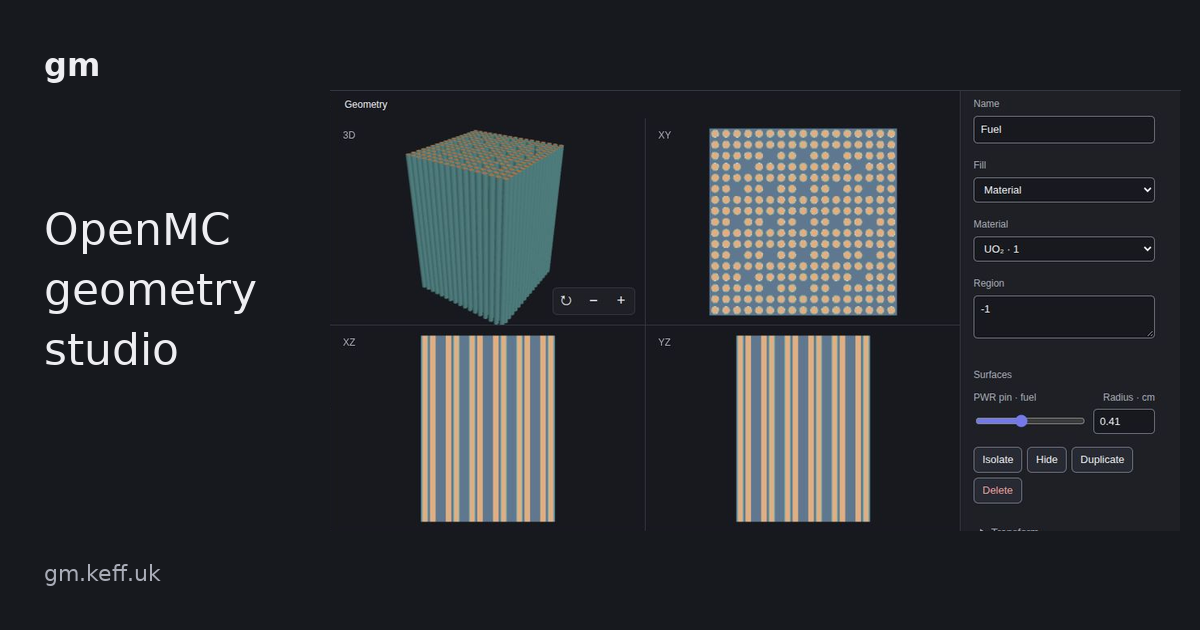
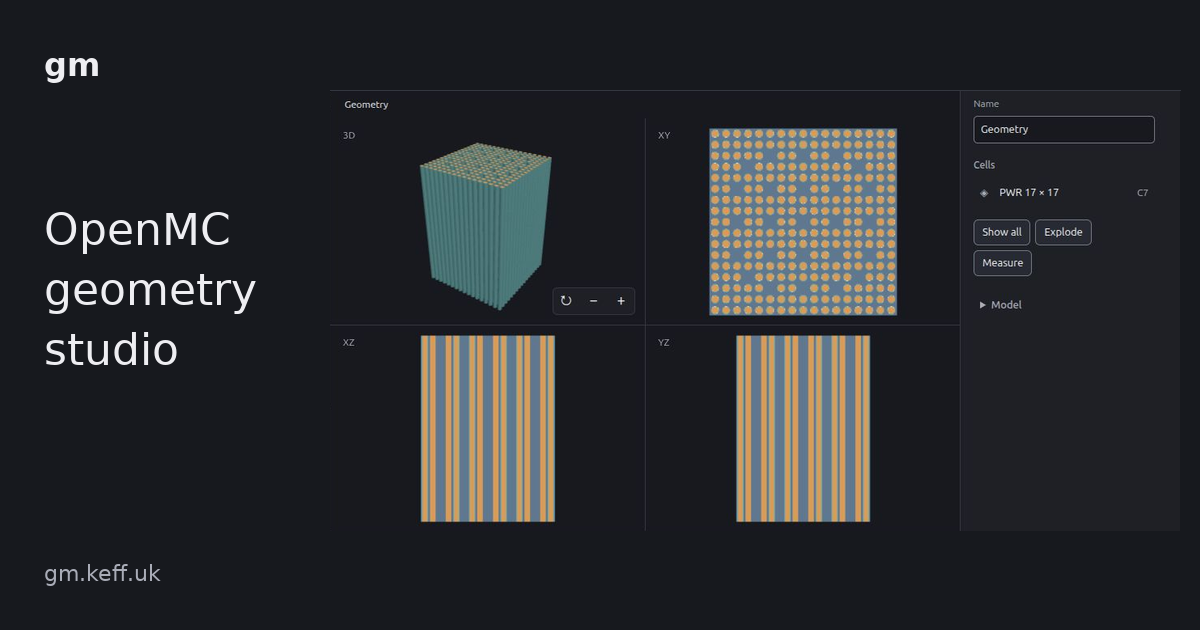
Synchronize geometry selection with views and simplify punctuation

diff --git a/public/app.js b/public/app.js
@@ -1,7 +1,7 @@
 import {STARTERS,createEmptyModel,createModelForTemplate,addPrimitive,addComponent,translateCell,updateLatticePitch,nextId,cloneOccurrence,exportGeometryXML,exportMaterialsXML,exportPython,importGeometryXML,validateModel} from './model.js';
 import {parseRegion} from './csg.js';
 import {GeometryViewer} from './viewer.js';
-const $=id=>document.getElementById(id),esc=v=>String(v??'').replaceAll('&','&amp;').replaceAll('<','&lt;').replaceAll('>','&gt;').replaceAll('"','&quot;');
+const $=id=>document.getElementById(id),plainLabel=v=>String(v??'').replaceAll('\u00b7','-'),esc=v=>plainLabel(v).replaceAll('&','&amp;').replaceAll('<','&lt;').replaceAll('>','&gt;').replaceAll('"','&quot;');
 const state={model:null,page:'library',filter:'all',undo:[],redo:[],transaction:null,scope:'shared',occurrence:null,paint:null,selectedSurfaces:[],documents:[],viewer:null,renderPending:false,measure:null};
 const STORAGE='gm.documents.v2';
 try{state.documents=JSON.parse(localStorage.getItem(STORAGE)||'[]');const old=localStorage.getItem('gm.studio.model.v1');if(!state.documents.length&&old)state.documents.push(JSON.parse(old));}catch{notice('Local storage unavailable. Export a copy before closing.');}
@@ -23,8 +23,8 @@ function normalize(m){
 }
 function openModel(m){state.model=normalize(structuredClone(m));state.undo=[];state.redo=[];state.occurrence=null;state.clonedOccurrence=null;state.scope='shared';state.page='editor';$('library').hidden=true;$('editor').hidden=false;$('editor').dataset.pane='view';$('export').disabled=false;$('validate').hidden=false;
  if(!state.viewer)state.viewer=new GeometryViewer($('view-host'),selectFromView,focusFromView,notice);
- save();renderEditor();redraw(true);document.title=state.model.name+' · GM';$('main').focus({preventScroll:true});}
-function home(){state.page='library';$('library').hidden=false;$('editor').hidden=true;$('model-name').textContent='Models';$('validate').hidden=true;$('saved').textContent='';renderLibrary();document.title='GM · OpenMC geometry studio';$('library').querySelector('h1').focus({preventScroll:true});}
+ save();renderEditor();redraw(true);document.title=plainLabel(state.model.name)+' - GM';$('main').focus({preventScroll:true});}
+function home(){state.page='library';$('library').hidden=false;$('editor').hidden=true;$('model-name').textContent='Models';$('validate').hidden=true;$('saved').textContent='';renderLibrary();document.title='GM - OpenMC geometry studio';$('library').querySelector('h1').focus({preventScroll:true});}
 function art(id){
  const hex=['hex19','candu','fast-hex','htgr'].includes(id);let out='<svg viewBox="0 0 230 112" aria-hidden="true">';
  if(id==='pin'){out+='<circle cx="115" cy="56" r="34" fill="#60788f"/><circle cx="115" cy="56" r="28" fill="#6caaa9"/><circle cx="115" cy="56" r="23" fill="#d9dcd3"/><circle cx="115" cy="56" r="21" fill="#d99b58"/>';}
@@ -40,7 +40,27 @@ function renderLibrary(){
  $('category-title').textContent={all:'All models',components:'Components',benchmarks:'Benchmarks',architectures:'Reactors'}[state.filter];
 }
 function selected(){const s=state.model?.selection;return s?state.model[{cell:'cells',surface:'surfaces',universe:'universes',lattice:'lattices',material:'materials'}[s.kind]]?.find(x=>x.id===s.id):null;}
-function select(kind,id){finishTransaction();state.clonedOccurrence=null;state.model.selection={kind,id:Number(id)};if(kind==='lattice')state.model.view='layout';else if(state.model.view==='layout')state.model.view='3d';if(kind!=='cell')state.occurrence=null;else if(state.model.focus.path?.length&&state.model.cells.find(c=>c.id===Number(id))?.universe===state.model.focus.universe)state.occurrence={cell:state.model.cells.find(c=>c.id===Number(id)),path:state.model.focus.path};renderEditor();}
+function select(kind,id,path=[]){
+ finishTransaction();state.clonedOccurrence=null;
+ const m=state.model,previousFocus=JSON.stringify(m.focus);m.selection={kind,id:Number(id)};
+ const x=selected();if(!x)return;state.occurrence=null;
+ let universe;
+ if(kind==='universe')universe=x.id;
+ if(kind==='cell')universe=x.universe;
+ if(kind==='lattice')universe=m.cells.find(c=>c.fill===x.id)?.universe;
+ if(kind==='surface'){
+  const owners=m.cells.filter(c=>(c.region.match(/[+-]?\d+/g)||[]).some(t=>Math.abs(Number(t))===x.id));
+  universe=owners.find(c=>c.universe===m.focus.universe)?.universe??owners[0]?.universe;
+ }
+ if(universe!=null&&(kind==='universe'||universe!==m.focus.universe))m.focus={universe,path:kind==='universe'?structuredClone(path):[]};
+ if(kind==='cell'&&m.focus.path?.length)state.occurrence={cell:x,path:structuredClone(m.focus.path)};
+ else state.scope='shared';
+ if(kind==='lattice')m.view='layout';else if(m.view==='layout')m.view='3d';
+ if(m.isolated!=null)m.isolated=kind==='cell'&&x.fill==null?x.id:null;
+ const focusChanged=previousFocus!==JSON.stringify(m.focus);
+ if(focusChanged){const bounds=m.universes.find(u=>u.id===m.focus.universe)?.bounds,axis=m.view==='yz'?0:m.view==='xz'?1:2;if(bounds)m.section=(bounds[axis*2]+bounds[axis*2+1])/2;}
+ renderEditor(focusChanged);save();
+}
 function selectFromView(hit){
  if(state.paint&&hit.path?.length){const step=hit.path.at(-1);mutate(m=>{m.lattices.find(l=>l.id===step.lattice).cells[step.index].universe=Number(state.paint);});return;}
  if(state.measure){const p=hit.worldPoint||hit.point;if(!state.measure.start){state.measure.start=p;notice('Select the second point.');}else{notice('Distance: '+Math.hypot(...p.map((v,i)=>v-state.measure.start[i])).toFixed(4)+' cm');state.measure=null;}return;}
@@ -57,18 +77,18 @@ function renderTree(){
  $('tree').innerHTML=m.universes.map(u=>'<div class="tree-universe">'+treeButton('universe',u)+m.cells.filter(c=>c.universe===u.id).map(c=>treeButton('cell',c,'cell')).join('')+'</div>').join('')+m.lattices.map(l=>treeButton('lattice',l)).join('');
  $('surfaces').innerHTML=m.surfaces.map(s=>treeButton('surface',s)).join('');
  $('materials').innerHTML=m.materials.map(x=>'<button class="tree-row" data-select="material" data-id="'+x.id+'"><span class="swatch" style="background:'+esc(x.color)+'"></span>'+esc(x.name)+'</button>').join('');
- $('counts').textContent=m.cells.length+' cells · '+m.universes.length+' universes';
+ $('counts').textContent=m.cells.length+' cells - '+m.universes.length+' universes';
 }
 function field(label,id,value,type='text'){return'<div class="field"><label for="'+id+'">'+label+'</label><input id="'+id+'" type="'+type+'" value="'+esc(value)+'"></div>';}
 function canFill(id,target,seen=new Set()){if(id===target)return false;if(seen.has(id))return true;seen.add(id);const l=state.model.lattices.find(l=>l.id===id);const next=l?l.cells.map(c=>c.universe):state.model.cells.filter(c=>c.universe===id&&c.fill!=null).map(c=>c.fill);return next.every(n=>canFill(n,target,seen));}
-function options(list,value,empty){return(empty?'<option value="">'+empty+'</option>':'')+list.map(x=>'<option value="'+x.id+'"'+(x.id===value?' selected':'')+'>'+esc(x.name)+' · '+x.id+'</option>').join('');}
+function options(list,value,empty){return(empty?'<option value="">'+empty+'</option>':'')+list.map(x=>'<option value="'+x.id+'"'+(x.id===value?' selected':'')+'>'+esc(x.name)+' - '+x.id+'</option>').join('');}
 function paramRow(s,key){
  const v=s.params[key],positive=key==='r',range=positive?Math.max(v*2,1):Math.max(Math.abs(v)*2,2),min=positive?.001:-range,label=key==='r'?'Radius':key;
- return'<div class="dimension"><label for="param-'+s.id+'-'+key+'">'+esc(s.name)+' <span>'+label+' · cm</span></label><div class="numeric-row"><input type="range" aria-label="'+esc(s.name)+' '+label+'" data-surface="'+s.id+'" data-param="'+key+'" min="'+min+'" max="'+range+'" step=".001" value="'+v+'"><input id="param-'+s.id+'-'+key+'" type="number" aria-label="'+esc(s.name)+' '+label+' value" data-surface="'+s.id+'" data-param="'+key+'" step=".001"'+(positive?' min=".001"':'')+' value="'+v+'"></div></div>';
+ return'<div class="dimension"><label for="param-'+s.id+'-'+key+'">'+esc(s.name)+' <span>'+label+' - cm</span></label><div class="numeric-row"><input type="range" aria-label="'+esc(s.name)+' '+label+'" data-surface="'+s.id+'" data-param="'+key+'" min="'+min+'" max="'+range+'" step=".001" value="'+v+'"><input id="param-'+s.id+'-'+key+'" type="number" aria-label="'+esc(s.name)+' '+label+' value" data-surface="'+s.id+'" data-param="'+key+'" step=".001"'+(positive?' min=".001"':'')+' value="'+v+'"></div></div>';
 }
 function scopeHTML(){return state.occurrence?.path?.length?'<div class="scope" role="group" aria-label="Editing scope"><label><input type="radio" name="scope" value="shared"'+(state.scope==='shared'?' checked':'')+'> Shared universe</label><label><input type="radio" name="scope" value="occurrence"'+(state.scope==='occurrence'?' checked':'')+'> This occurrence</label></div>':'';}
 function renderProperties(){
- const m=state.model,s=m.selection,x=selected();$('property-title').textContent=x?.name||'Properties';$('property-id').textContent=x?({cell:'C',surface:'S',universe:'U',lattice:'L',material:'M'}[s.kind])+x.id:'';
+ const m=state.model,s=m.selection,x=selected();$('property-title').textContent=plainLabel(x?.name)||'Properties';$('property-id').textContent=x?({cell:'C',surface:'S',universe:'U',lattice:'L',material:'M'}[s.kind])+x.id:'';
  if(!x){$('properties').innerHTML='<button id="property-add" class="button">+ Add geometry</button>';return;}
  let html=field('Name','item-name',x.name);
  if(s.kind==='cell'){
@@ -80,26 +100,25 @@ function renderProperties(){
   html+='<div class="section-title">Surfaces</div>'+ss.map(s=>Object.keys(s.params).filter(k=>s.type==='sphere'||s.type==='z-cylinder'?k==='r':true).map(k=>paramRow(s,k)).join('')).join('');
   if(x.fill!=null)html+='<button id="focus-fill" class="button">Open fill ↗</button>';
   html+='<div class="property-actions"><button id="isolate" aria-pressed="'+(m.isolated===x.id)+'">Isolate</button><button id="hide">Hide</button><button id="duplicate">Duplicate</button><button id="delete" class="danger">Delete</button></div>';
-  html+='<details><summary>Transform</summary>'+['x','y','z'].map((a,i)=>'<div class="field"><label for="translate-'+i+'">'+a+' · cm</label><input id="translate-'+i+'" type="number" data-translate="'+i+'" step=".01" value="'+(x.editorTranslation?.[i]||x.translation?.[i]||0)+'"></div>').join('')+'</details>';
+  html+='<details><summary>Transform</summary>'+['x','y','z'].map((a,i)=>'<div class="field"><label for="translate-'+i+'">'+a+' - cm</label><input id="translate-'+i+'" type="number" data-translate="'+i+'" step=".01" value="'+(x.editorTranslation?.[i]||x.translation?.[i]||0)+'"></div>').join('')+'</details>';
  }else if(s.kind==='surface'){
   html+=Object.keys(x.params).map(k=>paramRow(x,k)).join('');
   html+='<div class="field"><label for="boundary">Boundary</label><select id="boundary">'+['transmission','vacuum','reflective','periodic','white'].map(v=>'<option'+((x.boundaryType||'transmission')===v?' selected':'')+'>'+v+'</option>').join('')+'</select></div>';
   html+='<div class="section-title">Combine surfaces</div><div class="field"><label for="boolean-other">Surface</label><select id="boolean-other">'+options(m.surfaces.filter(a=>a.id!==x.id),null)+'</select></div><div class="field"><label for="boolean-cell">Cell</label><select id="boolean-cell">'+options(m.cells.filter(c=>c.fill==null),null)+'</select></div><div class="property-actions"><button data-boolean="union">Union</button><button data-boolean="intersection">Intersect</button><button data-boolean="difference">Subtract</button></div>';
  }else if(s.kind==='universe'){
-  html+='<button id="focus-universe" class="button">Focus universe ↗</button>';
   html+='<div class="section-title">Cells</div>'+m.cells.filter(c=>c.universe===x.id).map(c=>treeButton('cell',c)).join('');
   html+='<div class="property-actions"><button id="show-all">Show all</button><button id="explode" aria-pressed="'+!!m.exploded+'">Explode</button><button id="measure">Measure</button></div>';
-  if(x.id===0)html+='<details><summary>Model</summary><div class="field">'+field('Model name','document-name',m.name)+'</div><div class="hint">'+esc(m.metadata?.source||'GM')+(m.metadata?.sourceVersion?' · '+esc(m.metadata.sourceVersion):'')+'</div>'+(m.metadata?.sourceUrl?'<a class="hint" href="'+esc(m.metadata.sourceUrl)+'" target="_blank" rel="noopener">Source ↗</a>':'')+'<p class="hint">'+esc(m.metadata?.notes)+'</p></details>';
+  if(x.id===0)html+='<details><summary>Model</summary><div class="field">'+field('Model name','document-name',m.name)+'</div><div class="hint">'+esc(m.metadata?.source||'GM')+(m.metadata?.sourceVersion?' - '+esc(m.metadata.sourceVersion):'')+'</div>'+(m.metadata?.sourceUrl?'<a class="hint" href="'+esc(m.metadata.sourceUrl)+'" target="_blank" rel="noopener">Source ↗</a>':'')+'<p class="hint">'+esc(m.metadata?.notes)+'</p></details>';
  }else if(s.kind==='lattice'){
   html+='<div class="section-title">'+(x.type==='hexagonal'?x.cells.length+' positions':x.dimension.join(' × '))+'</div>';
-  html+=field('Pitch · cm','lattice-pitch',x.pitch[0],'number');
+  html+=field('Pitch - cm','lattice-pitch',x.pitch[0],'number');
   html+='<div class="field"><label for="paint-universe">Fill universe</label><select id="paint-universe">'+options(m.universes.filter(u=>canFill(u.id,m.cells.find(c=>c.fill===x.id)?.universe??0)),state.paint?Number(state.paint):x.cells[0]?.universe)+'</select></div><label class="hint"><input id="paint-enabled" type="checkbox"'+(state.paint?' checked':'')+'> Paint positions</label>';
   if(x.type==='rectangular'&&!x.dimension[2]||x.type==='hexagonal')html+='<button id="edit-layout" class="button">Edit layout</button>';
   else html+='<div class="field"><label for="position-index">Position</label><select id="position-index">'+x.cells.map((e,i)=>'<option value="'+i+'">'+(e.q!=null?e.q+', '+e.r:(e.x+1)+', '+(e.y+1)+', '+((e.z||0)+1))+'</option>').join('')+'</select></div><button id="replace-position" class="button">Replace position</button>';
   html+='<div class="property-actions"><button id="replace-all">Replace all</button>'+(x.type==='rectangular'&&!x.dimension[2]?'<button data-symmetry="x">Mirror X</button><button data-symmetry="y">Mirror Y</button><button data-symmetry="rotate">Rotate 90°</button>':'')+'<button id="focus-lattice">Focus lattice</button></div>';
  }else if(s.kind==='material'){
-  html+=field('Color','material-color',x.color,'color')+field('Density · g/cm³','density',x.density,'number');
-  html+='<div class="field"><label for="nuclides">Nuclides · atomic fractions</label><textarea id="nuclides" rows="5" spellcheck="false">'+esc((x.nuclides||[]).map(n=>n.name+' '+n.fraction).join('\n'))+'</textarea><div id="nuclide-error" class="validation-error" role="status"></div></div>';
+  html+=field('Color','material-color',x.color,'color')+field('Density - g/cm³','density',x.density,'number');
+  html+='<div class="field"><label for="nuclides">Nuclides - atomic fractions</label><textarea id="nuclides" rows="5" spellcheck="false">'+esc((x.nuclides||[]).map(n=>n.name+' '+n.fraction).join('\n'))+'</textarea><div id="nuclide-error" class="validation-error" role="status"></div></div>';
  }
  $('properties').innerHTML=html;
 }
@@ -110,14 +129,14 @@ function renderLayout(){
  $('layout-editor').innerHTML='<div class="layout-grid" style="--columns:'+columns+';--rows:'+rows+';grid-template-columns:repeat('+columns+',var(--tile));grid-template-rows:repeat('+rows+',var(--tile))">'+l.cells.filter(e=>!e.z).map((e,i)=>'<button data-lattice-index="'+i+'" aria-label="Position '+(e.q!=null?e.q+', '+e.r:(e.x+1)+', '+(e.y+1))+'; universe '+e.universe+'" title="'+esc(m.universes.find(u=>u.id===e.universe)?.name)+'" style="background:'+universeColor(e.universe)+';'+(e.q!=null?'grid-column:'+(e.q+l.rings)+';grid-row:'+(l.rings-e.r)+';transform:translateX('+e.r*15+'px);':'')+'"></button>').join('')+'</div>';
 }
 function renderPath(){const m=state.model,path=m.focus?.path||[];let html='<button data-focus-root>Geometry</button>';if(!path.length&&m.focus.universe!==0)html+='<span>›</span><button data-focus-u="'+m.focus.universe+'">'+esc(m.universes.find(u=>u.id===m.focus.universe)?.name)+'</button>';path.forEach((step,i)=>{html+='<span>›</span><button data-focus-depth="'+i+'">'+esc(m.universes.find(u=>u.id===step.universe)?.name)+' <span>'+(step.index+1)+'</span></button>';});$('path').innerHTML=html;}
-function renderEditor(){
- if(!state.model)return;const m=state.model;$('model-name').textContent=m.name;
+function renderEditor(fit=false){
+ if(!state.model)return;const m=state.model;$('model-name').textContent=plainLabel(m.name);
  renderTree();renderProperties();renderPath();$('empty-view').hidden=!!m.cells.length;
  $('view-host').dataset.view=m.view||'3d';$('layout-tab').hidden=m.selection?.kind!=='lattice';for(const id of ['split','cut','transparent','section','color','moderator'])$(id).disabled=m.view==='layout';renderLayout();document.querySelectorAll('[data-view]').forEach(b=>{if(b.tagName==='BUTTON')b.setAttribute('aria-pressed',String(b.dataset.view===m.view));});
  for(const [id,key]of [['cut','cutaway'],['transparent','transparent']])$(id).setAttribute('aria-pressed',String(!!m[key]));
  $('color').value=m.colorBy||'material';$('moderator').checked=!!m.showModerator;
  const b=m.universes.find(u=>u.id===m.focus.universe)?.bounds||[-1,1,-1,1,-1,1],v=m.section??0,axis=m.view==='yz'?0:m.view==='xz'?1:2;$('section').min=b[axis*2];$('section').max=b[axis*2+1];$('section').value=v;$('section-value').textContent=Number(v).toFixed(2)+' cm';
- redraw();updateHistory();
+ redraw(fit);updateHistory();
 }
 function dialog(id){$(id).showModal();}
 function download(name,text,type='text/plain'){const url=URL.createObjectURL(new Blob([text],{type})),a=document.createElement('a');a.href=url;a.download=name;a.click();setTimeout(()=>URL.revokeObjectURL(url),1000);}
@@ -164,11 +183,11 @@ document.addEventListener('click',e=>{
  const m=state.model;if(!m)return;const x=selected();if(!x&&!b.hasAttribute('data-focus-root')&&b.dataset.focusDepth==null&&b.dataset.focusU==null)return;
  if(b.id==='focus-universe'||b.id==='focus-fill'||b.id==='focus-lattice'){
   let id=x.id;if(b.id==='focus-fill'){id=x.fill;const l=m.lattices.find(l=>l.id===id);if(l)id=m.cells.find(c=>c.fill===l.id)?.universe??0;}if(b.id==='focus-lattice')id=m.cells.find(c=>c.fill===x.id)?.universe??0;
-  m.focus={universe:id,path:[]};m.selection={kind:'universe',id};state.occurrence=null;renderEditor();redraw(true);
+  select('universe',id);
  }
- if(b.dataset.focusU!=null){m.focus={universe:Number(b.dataset.focusU),path:[]};renderEditor();redraw(true);}
- if(b.hasAttribute('data-focus-root')){m.focus={universe:0,path:[]};renderEditor();redraw(true);}
- if(b.dataset.focusDepth!=null){const path=m.focus.path.slice(0,Number(b.dataset.focusDepth)+1);m.focus={universe:path.at(-1).universe,path};renderEditor();redraw(true);}
+ if(b.dataset.focusU!=null)select('universe',Number(b.dataset.focusU));
+ if(b.hasAttribute('data-focus-root'))select('universe',0);
+ if(b.dataset.focusDepth!=null){const path=m.focus.path.slice(0,Number(b.dataset.focusDepth)+1);select('universe',path.at(-1).universe,path);}
  if(b.id==='delete')mutate(m=>{m.cells=m.cells.filter(c=>c.id!==x.id);m.selection=null;});
  if(b.id==='duplicate')mutate(m=>{const n=structuredClone(x);n.id=nextId(m.cells);n.name+=' copy';n.transformSurfacesCloned=false;m.cells.push(n);const tr=n.editorTranslation||n.translation||[0,0,0];translateCell(m,n,[tr[0]+1.5,tr[1],tr[2]]);m.selection={kind:'cell',id:n.id};});
  if(b.id==='isolate')mutate(m=>m.isolated=m.isolated===x.id?null:x.id,{record:false});
@@ -232,7 +251,7 @@ window.gmStudio={
  setSurface:(id,params)=>{mutate(m=>{const s=m.surfaces.find(s=>s.id===Number(id));if(!s)throw new Error('Surface not found.');for(const [k,v]of Object.entries(params)){if(!Number.isFinite(v)||(k==='r'&&v<=0))throw new Error('Enter valid surface coefficients.');if(!(k in s.params))throw new Error('Unknown surface coefficient.');s.params[k]=v;}});return structuredClone(state.model);},
  add:type=>{if(!state.model)openModel(createEmptyModel());if(!['cylinder','sphere','box','pin','pwr17'].includes(type))throw new Error('Unknown geometry type.');mutate(m=>['pin','pwr17'].includes(type)?addComponent(m,type):addPrimitive(m,type));return structuredClone(state.model);},
  paint:(id,indices,universe)=>{mutate(m=>{const l=m.lattices.find(l=>l.id===Number(id));if(!l||!m.universes.some(u=>u.id===Number(universe)))throw new Error('Lattice or universe not found.');for(const index of indices){if(!l.cells[index])throw new Error('Position not found.');l.cells[index].universe=Number(universe);}});return structuredClone(state.model);},
- focus:(universe)=>{if(!state.model.universes.some(u=>u.id===Number(universe)))throw new Error('Universe not found.');state.model.focus={universe:Number(universe),path:[]};renderEditor();redraw(true);return structuredClone(state.model);},
+ focus:(universe)=>{if(!state.model.universes.some(u=>u.id===Number(universe)))throw new Error('Universe not found.');select('universe',Number(universe));return structuredClone(state.model);},
  undo,redo,export:(file)=>file==='geometry.xml'?exportGeometryXML(state.model):file==='materials.xml'?exportMaterialsXML(state.model):exportPython(state.model)
 };
 if(navigator.modelContext?.registerTool){

diff --git a/public/index.html b/public/index.html
@@ -2,13 +2,13 @@
 <html lang="en">
 <head>
 <meta charset="utf-8"><meta name="viewport" content="width=device-width,initial-scale=1,viewport-fit=cover">
-<meta name="theme-color" content="#17191e"><title>GM · OpenMC geometry studio</title>
+<meta name="theme-color" content="#17191e"><title>GM - OpenMC geometry studio</title>
 <meta name="description" content="Create, edit and export OpenMC geometry in your browser.">
-<meta property="og:type" content="website"><meta property="og:title" content="GM · OpenMC geometry studio">
+<meta property="og:type" content="website"><meta property="og:title" content="GM - OpenMC geometry studio">
 <meta property="og:description" content="Your OpenMC geometry workspace."><meta property="og:url" content="https://gm.keff.uk/">
-<meta property="og:image" content="https://gm.keff.uk/social-preview.png?v=2"><meta property="og:image:width" content="1200"><meta property="og:image:height" content="630">
+<meta property="og:image" content="https://gm.keff.uk/social-preview.png?v=3"><meta property="og:image:width" content="1200"><meta property="og:image:height" content="630">
 <meta property="og:image:alt" content="GM OpenMC geometry studio with a 3D assembly and section views.">
-<meta name="twitter:card" content="summary_large_image"><meta name="twitter:title" content="GM · OpenMC geometry studio"><meta name="twitter:description" content="Your OpenMC geometry workspace."><meta name="twitter:image" content="https://gm.keff.uk/social-preview.png?v=2">
+<meta name="twitter:card" content="summary_large_image"><meta name="twitter:title" content="GM - OpenMC geometry studio"><meta name="twitter:description" content="Your OpenMC geometry workspace."><meta name="twitter:image" content="https://gm.keff.uk/social-preview.png?v=3">
 <link rel="icon" href="/icon.svg"><link rel="manifest" href="/site.webmanifest"><link rel="stylesheet" href="/app.css">
 <link rel="alternate" href="/llms.txt" type="text/plain" title="Agent API"><link rel="alternate" href="/.well-known/mcp.json" type="application/json" title="MCP server">
 </head>
@@ -36,7 +36,7 @@
   <section id="view-pane" class="view-pane" aria-label="Geometry views">
    <div class="view-toolbar"><div class="segments" role="group" aria-label="View"><button data-view="3d" aria-pressed="true">3D</button><button data-view="xy" aria-pressed="false">XY</button><button data-view="xz" aria-pressed="false">XZ</button><button data-view="yz" aria-pressed="false">YZ</button><button id="layout-tab" data-view="layout" aria-pressed="false" hidden>Layout</button></div><div class="view-actions"><button id="split" class="icon" aria-label="Show four views" title="Four views" aria-pressed="false"><svg viewBox="0 0 24 24"><rect x="3" y="3" width="18" height="18" rx="2"/><path d="M12 3v18M3 12h18"/></svg></button><button id="cut" class="icon" aria-label="Show cutaway" title="Cutaway" aria-pressed="false"><svg viewBox="0 0 24 24"><circle cx="12" cy="12" r="9"/><path d="M12 3v18M12 12l8-4"/></svg></button><button id="transparent" class="icon" aria-label="Show transparent geometry" title="Transparency" aria-pressed="false"><svg viewBox="0 0 24 24"><rect x="3" y="3" width="12" height="12" rx="2"/><rect x="9" y="9" width="12" height="12" rx="2"/></svg></button><button id="fit" class="icon" aria-label="Fit geometry" title="Fit (F)"><svg viewBox="0 0 24 24"><path d="M8 3H3v5m13-5h5v5M3 16v5h5m13-5v5h-5"/></svg></button></div></div>
    <nav id="path" class="path" aria-label="Geometry path"></nav>
-   <div id="view-host" class="view-host" data-view="3d"><div class="view-frame frame-3d"><span class="axis">3D</span><canvas id="view-3d" tabindex="0" aria-label="3D geometry. Arrow keys rotate; plus and minus zoom."></canvas><div class="orbit-tools"><button id="rotate" aria-label="Rotate geometry" title="Rotate">↻</button><button id="zoom-out" aria-label="Zoom out">−</button><button id="zoom-in" aria-label="Zoom in">+</button></div></div><div class="view-frame frame-xy"><span class="axis">XY</span><canvas id="view-xy" tabindex="0" aria-label="XY geometry section"></canvas></div><div class="view-frame frame-xz"><span class="axis">XZ</span><canvas id="view-xz" tabindex="0" aria-label="XZ geometry section"></canvas></div><div class="view-frame frame-yz"><span class="axis">YZ</span><canvas id="view-yz" tabindex="0" aria-label="YZ geometry section"></canvas></div><div id="layout-editor" class="layout-editor" hidden></div><div id="empty-view" class="empty-view" hidden><button id="add-first" class="button">+ Add geometry</button></div></div>
+   <div id="view-host" class="view-host" data-view="3d"><div class="view-frame frame-3d"><span class="axis">3D</span><canvas id="view-3d" tabindex="0" aria-label="3D geometry. Arrow keys rotate; plus and minus zoom."></canvas><div class="orbit-tools"><button id="rotate" aria-label="Rotate geometry" title="Rotate">↻</button><button id="zoom-out" aria-label="Zoom out">-</button><button id="zoom-in" aria-label="Zoom in">+</button></div></div><div class="view-frame frame-xy"><span class="axis">XY</span><canvas id="view-xy" tabindex="0" aria-label="XY geometry section"></canvas></div><div class="view-frame frame-xz"><span class="axis">XZ</span><canvas id="view-xz" tabindex="0" aria-label="XZ geometry section"></canvas></div><div class="view-frame frame-yz"><span class="axis">YZ</span><canvas id="view-yz" tabindex="0" aria-label="YZ geometry section"></canvas></div><div id="layout-editor" class="layout-editor" hidden></div><div id="empty-view" class="empty-view" hidden><button id="add-first" class="button">+ Add geometry</button></div></div>
    <div class="view-bottom"><label>Color <select id="color"><option value="material">Material</option><option value="universe">Universe</option></select></label><label class="coolant"><input id="moderator" type="checkbox"> Moderator</label><label class="section-label" for="section">Section <input id="section" type="range" step=".01" min="-1" max="1" value="0"><output id="section-value">0 cm</output></label></div>
   </section>
   <aside id="properties-pane" class="pane properties-pane" aria-label="Selected geometry properties"><div class="pane-header"><h2 id="property-title">Properties</h2><span id="property-id" class="muted"></span></div><div id="properties" class="properties-scroll"></div></aside>

diff --git a/public/model.js b/public/model.js
@@ -1,8 +1,8 @@
 import {CORE_ROWS, GUIDE_POSITIONS} from './source-map.js';
 export const BENCHMARKS=[
 {id:'beavrs',name:'BEAVRS',source:'MIT CRPG',version:'2.0.2',href:'https://github.com/mit-crpg/BEAVRS',simplification:'Published map and pin dimensions. One representative assembly and fuel recipe. Axial loading and control rods omitted.'},
-{id:'c5g7-2d',name:'C5G7 · 2D',source:'OECD NEA / MIT CRPG',version:'NEA/NSC/DOC(2003)16',href:'https://github.com/mit-crpg/benchmarks/tree/master/c5g7/openmc',simplification:'3 × 3 core and 17 × 17 pin layouts. Illustrative continuous-energy recipes replace the seven-group benchmark materials.'},
-{id:'c5g7-3d',name:'C5G7 · 3D',source:'OECD NEA / MIT CRPG',version:'NEA/NSC/DOC(2005)16',href:'https://github.com/mit-crpg/benchmarks/tree/master/c5g7/openmc',simplification:'Unrodded layout with a top reflector. Illustrative continuous-energy recipes. Axial pin details omitted.'},
+{id:'c5g7-2d',name:'C5G7 - 2D',source:'OECD NEA / MIT CRPG',version:'NEA/NSC/DOC(2003)16',href:'https://github.com/mit-crpg/benchmarks/tree/master/c5g7/openmc',simplification:'3 × 3 core and 17 × 17 pin layouts. Illustrative continuous-energy recipes replace the seven-group benchmark materials.'},
+{id:'c5g7-3d',name:'C5G7 - 3D',source:'OECD NEA / MIT CRPG',version:'NEA/NSC/DOC(2005)16',href:'https://github.com/mit-crpg/benchmarks/tree/master/c5g7/openmc',simplification:'Unrodded layout with a top reflector. Illustrative continuous-energy recipes. Axial pin details omitted.'},
 {id:'takeda',name:'Takeda',source:'OECD NEA',version:'NEA/NSC/DOC(2000)4',href:'https://www.oecd-nea.org/jcms/pl_17440/3-d-radiation-transport-benchmarks-for-simple-geometries-with-void-region',simplification:'Box-core, reflector and void-channel adaptation. Illustrative dimensions and recipes; not an exact reference variant.'}
 ].map(x=>({...x,family:'benchmarks'}));
 export const STARTERS=[
@@ -20,12 +20,12 @@ m.materials=data.map(([name,color,density,ns],i)=>({id:i+1,name,color,density,de
 function surf(m,name,type,params,boundaryType){const id=nextId(m.surfaces);m.surfaces.push({id,name,type,params,...(boundaryType?{boundaryType}:{})});return id;}
 function cell(m,universe,name,region,material,fill=null){const id=nextId(m.cells);m.cells.push({id,universe,name,region,material,fill});return id;}
 function uni(m,name,bounds){const id=Math.max(nextId(m.universes),nextId(m.lattices));m.universes.push({id,name,bounds});return id;}
-function box(m,name,b,boundary){return b.map((v,i)=>{const a='xyz'[Math.floor(i/2)],id=surf(m,name+' '+a+(i%2?'+':'−'),a+'-plane',{[a+'0']:v},boundary);return(i%2?'-':'')+id;}).join(' ');}
+function box(m,name,b,boundary){return b.map((v,i)=>{const a='xyz'[Math.floor(i/2)],id=surf(m,name+' '+a+(i%2?'+':'-'),a+'-plane',{[a+'0']:v},boundary);return(i%2?'-':'')+id;}).join(' ');}
 function water(m,name='Moderator',mat=4,b=[-1,1,-1,1,-15,15]){const u=uni(m,name,b);cell(m,u,name,'',mat);return u;}
 function pin(m,name='Fuel pin',r=.41,p=1.26,h=30,fuel=1,coolant=4,single=false){
-const u=uni(m,name,[-p/2,p/2,-p/2,p/2,-h/2,h/2]),f=surf(m,name+' · fuel','z-cylinder',{x0:0,y0:0,r});cell(m,u,'Fuel','-'+f,fuel);
+const u=uni(m,name,[-p/2,p/2,-p/2,p/2,-h/2,h/2]),f=surf(m,name+' - fuel','z-cylinder',{x0:0,y0:0,r});cell(m,u,'Fuel','-'+f,fuel);
 if(single){cell(m,u,'Moderator',''+f,coolant);return u;}
-const g=surf(m,name+' · gap','z-cylinder',{x0:0,y0:0,r:r+.008}),c=surf(m,name+' · clad','z-cylinder',{x0:0,y0:0,r:r+.065});cell(m,u,'Gap',f+' -'+g,2);cell(m,u,'Cladding',g+' -'+c,3);cell(m,u,'Moderator',''+c,coolant);return u;
+const g=surf(m,name+' - gap','z-cylinder',{x0:0,y0:0,r:r+.008}),c=surf(m,name+' - clad','z-cylinder',{x0:0,y0:0,r:r+.065});cell(m,u,'Gap',f+' -'+g,2);cell(m,u,'Cladding',g+' -'+c,3);cell(m,u,'Moderator',''+c,coolant);return u;
 }
 export function hexPositions(rings){const a=[];for(let q=1-rings;q<rings;q++)for(let r=1-rings;r<rings;r++)if(Math.max(Math.abs(q),Math.abs(r),Math.abs(q+r))<rings)a.push({q,r});return a;}
 export function latticePosition(l,e){
@@ -76,7 +76,7 @@ const id=cell(m,u,type[0].toUpperCase()+type.slice(1)+' '+n,region,1);m.kind='ge
 export function cloneOccurrence(m,path,cellId){
 const cm=new Map(),sm=new Map(),um=new Map(),lm=new Map();
 function copy(id,depth){
-const old=m.universes.find(x=>x.id===id),u=uni(m,old.name+' · occurrence',structuredClone(old.bounds));um.set(id,u);
+const old=m.universes.find(x=>x.id===id),u=uni(m,old.name+' - occurrence',structuredClone(old.bounds));um.set(id,u);
 for(const c of [...m.cells.filter(x=>x.universe===id)]){
 const n=structuredClone(c);n.id=nextId(m.cells);n.universe=u;cm.set(c.id,n.id);
 n.region=String(c.region).replace(/[+-]?\d+/g,t=>{const old=Math.abs(Number(t));if(!sm.has(old)){const s=structuredClone(m.surfaces.find(x=>x.id===old));s.id=nextId(m.surfaces);m.surfaces.push(s);sm.set(old,s.id);}return(t.startsWith('-')?'-':'')+sm.get(old);});

diff --git a/public/viewer.js b/public/viewer.js
@@ -29,7 +29,10 @@ export class GeometryViewer {
   for(const axis of ['xy','xz','yz']){const c=host.querySelector('#view-'+axis);c.addEventListener('click',e=>this.pickSlice(e,axis,false));c.addEventListener('dblclick',e=>this.pickSlice(e,axis,true));}
  }
  update(model,options={}){
-  this.model=model;this.compiled=compileModel(model);this.revision++;this.items=collectInstances(this.compiled);this.rebuild();if(options.fit||this.lastFocus!==JSON.stringify(model.focus)){this.fit();this.lastFocus=JSON.stringify(model.focus);}this.resize();
+  this.model=model;this.compiled=compileModel(model);this.revision++;this.items=collectInstances(this.compiled);
+  this.onlyBackground=this.items.every(item=>item.shape.type==='moderator'||(!item.cell.region&&item.shape.type==='box'));
+  const s=model.selection;this.selectedCells=new Set(model.cells.filter(c=>s?.kind==='cell'?c.id===s.id:s?.kind==='material'?c.material===s.id:s?.kind==='surface'?(c.region.match(/[+-]?\d+/g)||[]).some(t=>Math.abs(Number(t))===s.id):false).map(c=>c.id));
+  this.rebuild();if(options.fit||this.lastFocus!==JSON.stringify(model.focus)){this.fit();this.lastFocus=JSON.stringify(model.focus);}this.resize();
   this.canvas.dataset.revision=this.revision;this.canvas.dataset.instances=this.items.length;
  }
  clear(){
@@ -40,8 +43,8 @@ export class GeometryViewer {
   this.clear();const batches=new Map();const m=this.model;
   for(const item of this.items){
    if(item.cell.hidden||(m.isolated!=null&&item.cell.id!==m.isolated))continue;
-   const sh=item.shape,b=item.bounds,mat=m.materials.find(x=>x.id===item.cell.material),background=sh.type==='moderator'||(!item.cell.region&&sh.type==='box');
-   if(background&&!m.showModerator)continue;
+   const sh=item.shape,b=item.bounds,mat=m.materials.find(x=>x.id===item.cell.material),background=!this.onlyBackground&&(sh.type==='moderator'||(!item.cell.region&&sh.type==='box'));
+   if(background&&!m.showModerator&&!this.selectedCells.has(item.cell.id))continue;
    const color=m.colorBy==='universe'?new THREE.Color().setHSL((item.universe*.137)%1,.3,.57).getStyle():mat?.color||'#9b9da2';
    const key=JSON.stringify([item.cell.id,sh,b,color,m.cutaway,background]);
    if(!batches.has(key))batches.set(key,{items:[],item,color,background});batches.get(key).items.push(item);
@@ -65,7 +68,7 @@ export class GeometryViewer {
  }
  addBatch(geometry,material,items,center){
   const mesh=new THREE.InstancedMesh(geometry,material,items.length),matrix=new THREE.Matrix4();
-  items.forEach((item,i)=>{const explode=this.model.exploded&&this.items.length<1000?item.cell.id*.12:0;matrix.makeTranslation(item.position[0]+center[0]+explode,item.position[1]+center[1],item.position[2]+center[2]);mesh.setMatrixAt(i,matrix);if(this.model.selection?.kind==='cell'&&this.model.selection.id===item.cell.id)mesh.setColorAt(i,new THREE.Color(material.color).lerp(new THREE.Color('#ffffff'),.22));});
+  items.forEach((item,i)=>{const explode=this.model.exploded&&this.items.length<1000?item.cell.id*.12:0;matrix.makeTranslation(item.position[0]+center[0]+explode,item.position[1]+center[1],item.position[2]+center[2]);mesh.setMatrixAt(i,matrix);if(this.selectedCells.has(item.cell.id))mesh.setColorAt(i,new THREE.Color(material.color).lerp(new THREE.Color('#ffffff'),.22));});
   mesh.instanceMatrix.needsUpdate=true;mesh.userData.items=items;this.group.add(mesh);this.meshes.push(mesh);
  }
  resize(){
@@ -99,7 +102,7 @@ export class GeometryViewer {
    for(let y=0;y<height;y++)for(let x=0;x<width;x++){
     const p=[0,0,0];p[a]=cx+(x-width/2)*scale;p[c]=cy+(height/2-y)*scale;p[normal]=cut;
     const found=locate(this.compiled,p),cell=found?.cell;let hex=0x17191e;
-    if(cell&&!cell.hidden&&(this.model.isolated==null||cell.id===this.model.isolated)){hex=this.model.colorBy==='universe'?new THREE.Color().setHSL((found.universe*.137)%1,.3,.57).getHex():colors.get(cell.material)||0x91939b;if(this.model.selection?.id===cell.id&&this.model.selection.kind==='cell')hex=new THREE.Color(hex).lerp(new THREE.Color('#ffffff'),.14).getHex();}
+    if(cell&&!cell.hidden&&(this.model.isolated==null||cell.id===this.model.isolated)){hex=this.model.colorBy==='universe'?new THREE.Color().setHSL((found.universe*.137)%1,.3,.57).getHex():colors.get(cell.material)||0x91939b;if(this.selectedCells.has(cell.id))hex=new THREE.Color(hex).lerp(new THREE.Color('#ffffff'),.14).getHex();}
     const i=(y*width+x)*4;image.data[i]=hex>>16&255;image.data[i+1]=hex>>8&255;image.data[i+2]=hex&255;image.data[i+3]=255;
    }ctx.putImageData(image,0,0);canvas.dataset.revision=this.revision;
   }

diff --git a/public/docs/benchmarks/index.html b/public/docs/benchmarks/index.html
@@ -1,1 +1,1 @@
-<!doctype html><html lang="en"><head><meta charset="utf-8"><meta name="viewport" content="width=device-width,initial-scale=1"><link rel="stylesheet" href="/docs/docs.css"><title>Example sources · GM</title></head><body><main><a href="/">← GM</a><h1>Example sources</h1><table><thead><tr><th>Model</th><th>Source / version</th><th>Adaptation</th></tr></thead><tbody><tr><th><a href="https://github.com/mit-crpg/BEAVRS">BEAVRS</a></th><td>MIT CRPG<br>2.0.2</td><td>Published map and pin dimensions. One representative assembly and fuel recipe. Axial loading and control rods omitted.</td></tr><tr><th><a href="https://github.com/mit-crpg/benchmarks/tree/master/c5g7/openmc">C5G7 · 2D</a></th><td>OECD NEA / MIT CRPG<br>NEA/NSC/DOC(2003)16</td><td>3 × 3 core and 17 × 17 pin layouts. Illustrative continuous-energy recipes replace the seven-group benchmark materials.</td></tr><tr><th><a href="https://github.com/mit-crpg/benchmarks/tree/master/c5g7/openmc">C5G7 · 3D</a></th><td>OECD NEA / MIT CRPG<br>NEA/NSC/DOC(2005)16</td><td>Unrodded layout with a top reflector. Illustrative continuous-energy recipes. Axial pin details omitted.</td></tr><tr><th><a href="https://www.oecd-nea.org/jcms/pl_17440/3-d-radiation-transport-benchmarks-for-simple-geometries-with-void-region">Takeda</a></th><td>OECD NEA<br>NEA/NSC/DOC(2000)4</td><td>Box-core, reflector and void-channel adaptation. Illustrative dimensions and recipes; not an exact reference variant.</td></tr></tbody></table><h2>Components and reactors</h2><p>Generated parametric examples with illustrative material recipes. Reactor architectures are generic.</p></main></body></html>
+<!doctype html><html lang="en"><head><meta charset="utf-8"><meta name="viewport" content="width=device-width,initial-scale=1"><link rel="stylesheet" href="/docs/docs.css"><title>Example sources - GM</title></head><body><main><a href="/">← GM</a><h1>Example sources</h1><table><thead><tr><th>Model</th><th>Source / version</th><th>Adaptation</th></tr></thead><tbody><tr><th><a href="https://github.com/mit-crpg/BEAVRS">BEAVRS</a></th><td>MIT CRPG<br>2.0.2</td><td>Published map and pin dimensions. One representative assembly and fuel recipe. Axial loading and control rods omitted.</td></tr><tr><th><a href="https://github.com/mit-crpg/benchmarks/tree/master/c5g7/openmc">C5G7 - 2D</a></th><td>OECD NEA / MIT CRPG<br>NEA/NSC/DOC(2003)16</td><td>3 × 3 core and 17 × 17 pin layouts. Illustrative continuous-energy recipes replace the seven-group benchmark materials.</td></tr><tr><th><a href="https://github.com/mit-crpg/benchmarks/tree/master/c5g7/openmc">C5G7 - 3D</a></th><td>OECD NEA / MIT CRPG<br>NEA/NSC/DOC(2005)16</td><td>Unrodded layout with a top reflector. Illustrative continuous-energy recipes. Axial pin details omitted.</td></tr><tr><th><a href="https://www.oecd-nea.org/jcms/pl_17440/3-d-radiation-transport-benchmarks-for-simple-geometries-with-void-region">Takeda</a></th><td>OECD NEA<br>NEA/NSC/DOC(2000)4</td><td>Box-core, reflector and void-channel adaptation. Illustrative dimensions and recipes; not an exact reference variant.</td></tr></tbody></table><h2>Components and reactors</h2><p>Generated parametric examples with illustrative material recipes. Reactor architectures are generic.</p></main></body></html>

diff --git a/public/docs/index.html b/public/docs/index.html
@@ -1,1 +1,1 @@
-<!doctype html><html lang="en"><head><meta charset="utf-8"><meta name="viewport" content="width=device-width,initial-scale=1"><link rel="stylesheet" href="/docs/docs.css"><title>Geometry format · GM</title></head><body><main><a href="/">← GM</a><h1>Geometry format</h1><h2>Model</h2><p>GM stores surfaces, Boolean regions, cells, materials, universes and lattices in a local JSON document. Browser autosave and undo/redo keep edits on your device.</p><h2>Views</h2><p>GPU rendering reuses repeated geometry. XY, XZ and YZ sections evaluate the same CSG regions. Complex Boolean solids use a voxel mesh for their 3D display; sections and XML retain the original region expressions.</p><h2>Files</h2><p>Import geometry.xml and materials.xml, or a .gm.json project. Export both XML files and model.py. Supported surfaces: axis planes, arbitrary planes, spheres and Z cylinders. Rectangular and radial hexagonal lattices are supported.</p><p>Settings, tallies, distributed materials and rotated universes are outside the editor format. GM does not run neutron transport.</p><p><a href="/docs/benchmarks/">Example sources</a> · <a href="/docs/agents/">Agent API</a></p></main></body></html>
+<!doctype html><html lang="en"><head><meta charset="utf-8"><meta name="viewport" content="width=device-width,initial-scale=1"><link rel="stylesheet" href="/docs/docs.css"><title>Geometry format - GM</title></head><body><main><a href="/">← GM</a><h1>Geometry format</h1><h2>Model</h2><p>GM stores surfaces, Boolean regions, cells, materials, universes and lattices in a local JSON document. Browser autosave and undo/redo keep edits on your device.</p><h2>Views</h2><p>GPU rendering reuses repeated geometry. XY, XZ and YZ sections evaluate the same CSG regions. Complex Boolean solids use a voxel mesh for their 3D display; sections and XML retain the original region expressions.</p><h2>Files</h2><p>Import geometry.xml and materials.xml, or a .gm.json project. Export both XML files and model.py. Supported surfaces: axis planes, arbitrary planes, spheres and Z cylinders. Rectangular and radial hexagonal lattices are supported.</p><p>Settings, tallies, distributed materials and rotated universes are outside the editor format. GM does not run neutron transport.</p><p><a href="/docs/benchmarks/">Example sources</a> - <a href="/docs/agents/">Agent API</a></p></main></body></html>

diff --git a/public/docs/agents/index.html b/public/docs/agents/index.html
@@ -1,4 +1,4 @@
-<!doctype html><html lang="en"><head><meta charset="utf-8"><meta name="viewport" content="width=device-width,initial-scale=1"><link rel="stylesheet" href="/docs/docs.css"><title>Agent API · GM</title></head><body><main><a href="/">← GM</a><h1>Agent API</h1><h2>Current workspace</h2><p>WebMCP tools open examples, read the local model, edit surface coefficients and export files. Changes appear in the editor and enter its undo history.</p><pre>geometry_catalog
+<!doctype html><html lang="en"><head><meta charset="utf-8"><meta name="viewport" content="width=device-width,initial-scale=1"><link rel="stylesheet" href="/docs/docs.css"><title>Agent API - GM</title></head><body><main><a href="/">← GM</a><h1>Agent API</h1><h2>Current workspace</h2><p>WebMCP tools open examples, read the local model, edit surface coefficients and export files. Changes appear in the editor and enter its undo history.</p><pre>geometry_catalog
 geometry_open { id }
 geometry_get
 geometry_add { type }
@@ -11,4 +11,4 @@ geometry.template { id }
 geometry.focus { model, level, x, y }
 geometry.set_surface { model, id, params }
 geometry.validate { model }
-geometry.export { model, file }</pre><p><a href="/api/models.json">Catalog JSON</a> · <a href="/openapi.json">OpenAPI</a></p></main></body></html>
+geometry.export { model, file }</pre><p><a href="/api/models.json">Catalog JSON</a> - <a href="/openapi.json">OpenAPI</a></p></main></body></html>

diff --git a/public/csg.js b/public/csg.js
@@ -2,7 +2,7 @@ import {latticePosition} from './model.js';
 export function parseRegion(text) {
  if(/[^\s\d+\-():~|]/.test(String(text||'')))throw new Error('Use surface IDs and region operators.');
  const tokens=String(text||'').replaceAll('|',':').match(/[+-]?\d+|[():~]/g)||[];let i=0;
- function atom(){let t=tokens[i++];if(t==='~')return{op:'not',a:atom()};if(t==='('){let a=union();if(tokens[i++]!==')')throw new Error('Close the region parenthesis.');return a;}if(!/^[+-]?\d+$/.test(t||''))throw new Error('Enter surface half-spaces, e.g. −1 2.');return{op:'surface',id:Math.abs(Number(t)),negative:Number(t)<0};}
+ function atom(){let t=tokens[i++];if(t==='~')return{op:'not',a:atom()};if(t==='('){let a=union();if(tokens[i++]!==')')throw new Error('Close the region parenthesis.');return a;}if(!/^[+-]?\d+$/.test(t||''))throw new Error('Enter surface half-spaces, e.g. -1 2.');return{op:'surface',id:Math.abs(Number(t)),negative:Number(t)<0};}
  function intersection(){let a=atom();while(i<tokens.length&&![')',':'].includes(tokens[i]))a={op:'and',a,b:atom()};return a;}
  function union(){let a=intersection();while(tokens[i]===':'){i++;a={op:'or',a,b:intersection()};}return a;}
  if(!tokens.length)return null;const result=union();if(i!==tokens.length)throw new Error('Check the region expression.');return result;
